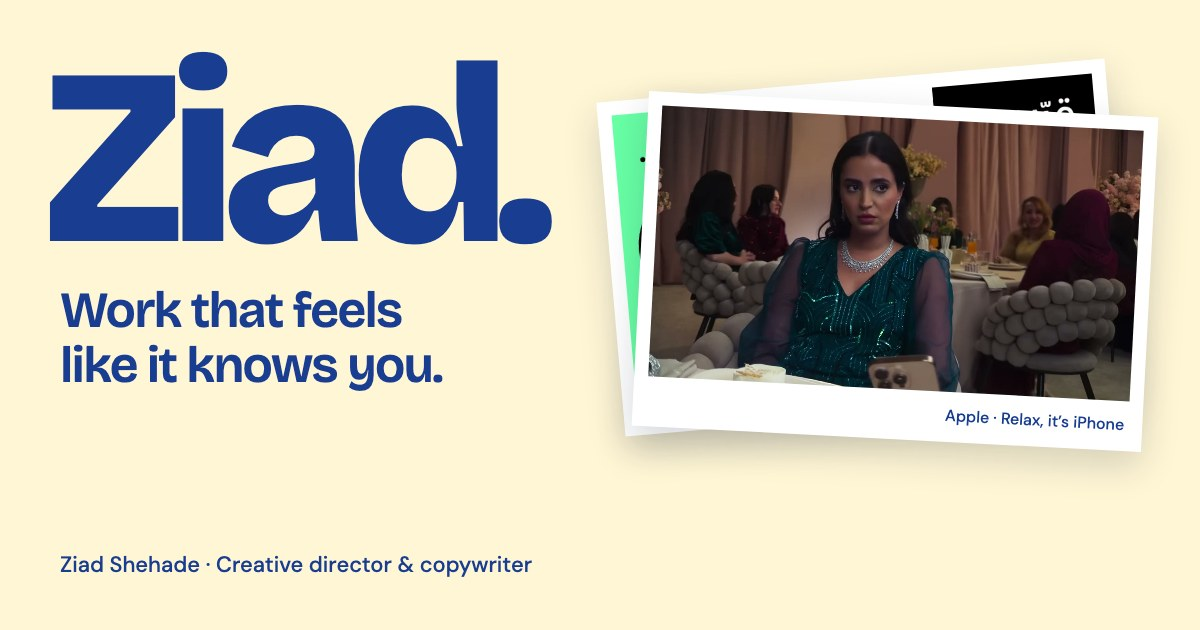
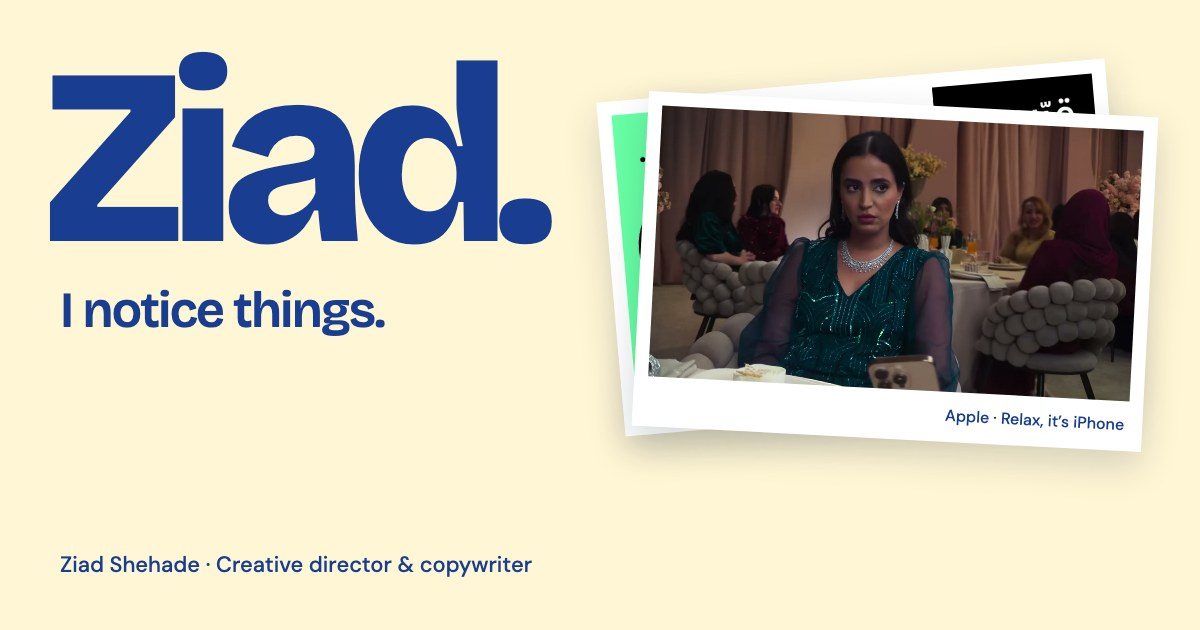
Use "I notice things." as the opening line
Ziad rejected "Work that feels like it knows you." as too earnest and
asked for something cool, personal and free of claims about the work.
"I notice things." is about him, and it sits beside the film moments
the hero deck shows. The link preview is re-rendered with the same line
(Relax frame in front, his choice).

Changed region(s): [[0.0308, 0.4524, 0.37, 0.6333]]

diff --git a/index.html b/index.html
@@ -15,7 +15,7 @@
   <meta property="og:image" content="https://ziad-sheh.github.io/portfolio/media/share-card.jpg">
   <meta property="og:image:width" content="1200">
   <meta property="og:image:height" content="630">
-  <meta property="og:image:alt" content="Ziad. Work that feels like it knows you. A still from Relax, it’s iPhone, framed as a Polaroid.">
+  <meta property="og:image:alt" content="Ziad. I notice things. A still from Relax, it’s iPhone, framed as a Polaroid.">
   <meta name="twitter:card" content="summary_large_image">
   <link rel="preload" href="fonts/bricolage-800.woff2" as="font" type="font/woff2" crossorigin>
   <link rel="preload" href="fonts/caveat-400.woff2" as="font" type="font/woff2" crossorigin>
@@ -47,7 +47,7 @@
     <section class="opening" aria-label="Introduction">
       <div class="opening-stage">
         <h1>Ziad<span class="name-stop">.</span></h1>
-        <p class="opening-line">Work that feels like it knows you.</p>
+        <p class="opening-line">I notice things.</p>
         <div class="moment-stack">
           <div class="moment-deck">
             <figure class="moment-frame" data-slot="0">

diff --git a/scripts/share-card.html b/scripts/share-card.html
@@ -21,7 +21,7 @@
 </head>
 <body>
   <h1>Ziad.</h1>
-  <p class="line">Work that feels like it knows you.</p>
+  <p class="line">I notice things.</p>
   <p class="who">Ziad Shehade · Creative director &amp; copywriter</p>
   <figure class="print back"><img id="back" src="../media/grid/apple-pay-riyadh.jpg" alt=""><figcaption></figcaption></figure>
   <figure class="print front"><img id="front" src="../media/moment-matchmaker.jpg" alt=""><figcaption id="caption">Apple · Relax, it’s iPhone</figcaption></figure>
